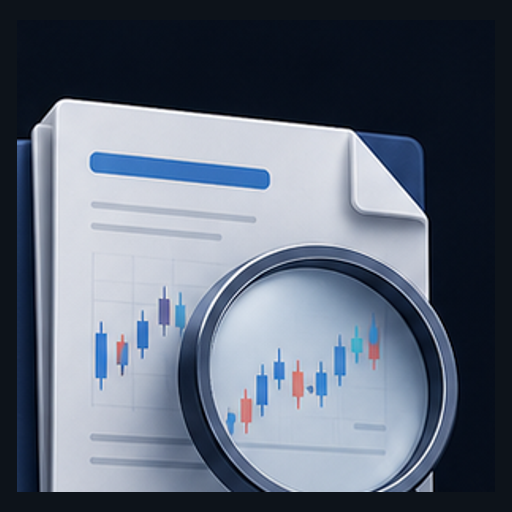
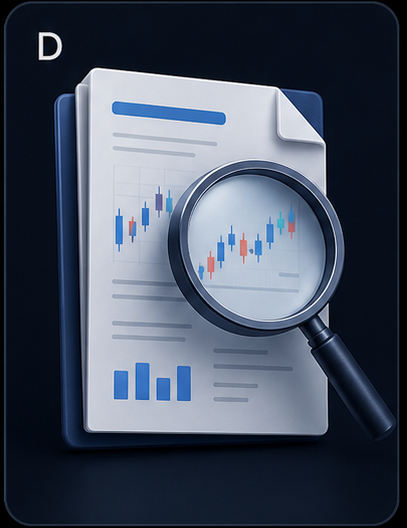
Replace report card image with provided asset

diff --git a/mobile-radar/app.py b/mobile-radar/app.py
@@ -951,7 +951,7 @@ HTML = r"""<!doctype html>
 .app{max-width:760px;margin:0 auto;padding:14px 12px 90px}.top{position:sticky;top:0;z-index:10;background:linear-gradient(#0d131a 80%,rgba(13,19,26,0));padding:10px 0 12px}
 h1{font-size:24px;margin:0 0 4px}.status{font-size:12px;color:var(--muted);margin-top:8px}
 .home-grid{display:grid;grid-template-columns:1fr 1fr;gap:10px;margin:14px 0}.home-card{min-height:132px;background:linear-gradient(180deg,#141d27,#111820);border:1px solid var(--line);border-radius:16px;padding:12px;overflow:hidden;box-shadow:0 10px 22px rgba(0,0,0,.16)}.home-card.wide{grid-column:span 2}.home-card.action{min-height:84px;display:flex;flex-direction:column;justify-content:center}.home-card h2{font-size:15px;margin:0 0 9px;letter-spacing:0}.home-card:nth-child(1) h2{color:#9dccff}.home-card:nth-child(2) h2{color:#ffcf9b}.home-card:nth-child(3) h2{color:#c3a7ff}.home-card:nth-child(4) h2{color:#42c7d8}.home-card:nth-child(5) h2{color:#8aff8a}.home-card:nth-child(6) h2{color:#ffb5d0}.home-card:nth-child(7) h2{color:#d7e7ff}
-.ticker{height:47px;overflow:hidden}.ticker-track{display:grid;gap:5px;animation:roll 10s linear infinite}.ticker-line{display:grid;grid-template-columns:18px minmax(0,1fr) auto;gap:5px;align-items:center;color:#d8e4ee;font-size:12px;min-height:21px}.ticker-line span:nth-child(2){white-space:nowrap;overflow:hidden;text-overflow:ellipsis}.ticker-rank{color:var(--accent);font-weight:900}.ticker-val{color:var(--good);font-weight:800;font-size:11px;white-space:nowrap}@keyframes roll{0%,20%{transform:translateY(0)}28%,48%{transform:translateY(-26px)}56%,76%{transform:translateY(-52px)}84%,96%{transform:translateY(-78px)}100%{transform:translateY(0)}}.hint{font-size:11px;color:var(--muted);margin-top:7px}.report-home{height:78px;display:grid;grid-template-columns:62px 1fr;gap:10px;align-items:center}.report-art{height:62px;border-radius:15px;background:#0d131a url('/static/report-card-d.png') center/cover no-repeat;border:1px solid #344151;box-shadow:0 12px 24px rgba(125,177,255,.18)}.report-home b{display:block;color:#d7e7ff;font-size:14px}.report-home span{display:block;color:#9fb0bf;font-size:11px;line-height:1.45;margin-top:3px}
+.ticker{height:47px;overflow:hidden}.ticker-track{display:grid;gap:5px;animation:roll 10s linear infinite}.ticker-line{display:grid;grid-template-columns:18px minmax(0,1fr) auto;gap:5px;align-items:center;color:#d8e4ee;font-size:12px;min-height:21px}.ticker-line span:nth-child(2){white-space:nowrap;overflow:hidden;text-overflow:ellipsis}.ticker-rank{color:var(--accent);font-weight:900}.ticker-val{color:var(--good);font-weight:800;font-size:11px;white-space:nowrap}@keyframes roll{0%,20%{transform:translateY(0)}28%,48%{transform:translateY(-26px)}56%,76%{transform:translateY(-52px)}84%,96%{transform:translateY(-78px)}100%{transform:translateY(0)}}.hint{font-size:11px;color:var(--muted);margin-top:7px}.report-home{height:82px;display:grid;grid-template-columns:70px 1fr;gap:10px;align-items:center}.report-art{height:74px;border-radius:15px;background:#0d131a url('/static/report-card-d.png') center/contain no-repeat;border:1px solid #344151;box-shadow:0 12px 24px rgba(125,177,255,.18)}.report-home b{display:block;color:#d7e7ff;font-size:14px}.report-home span{display:block;color:#9fb0bf;font-size:11px;line-height:1.45;margin-top:3px}
 .macro-chart-grid{display:grid;gap:10px}.macro-chart{background:var(--card);border:1px solid var(--line);border-radius:14px;padding:10px}.macro-chart-head{display:flex;justify-content:space-between;align-items:baseline;gap:8px}.macro-chart-name{font-weight:900}.macro-chart-value{color:#d7e7ff;font-weight:900}.macro-pos{color:#8aff8a}.macro-neg{color:#ff8585}.mini-svg{width:100%;height:108px;margin-top:8px;display:block}.mini-svg .axis{stroke:#263544;stroke-width:1}.mini-svg .line{fill:none;stroke:#7db1ff;stroke-width:3}.mini-svg .area{fill:#1b2d43;opacity:.55}
 .panel{display:none;background:var(--panel);border:1px solid var(--line);border-radius:14px;padding:12px;margin:12px 0}.page-mode #homeGrid{display:none}.page-mode #detailPanel{display:block}.page-mode .refresh{display:none}.panel-head{display:flex;align-items:center;gap:10px;margin-bottom:10px}.back{border:1px solid #4f77aa;background:#26384d;color:#d7e7ff;border-radius:10px;width:38px;height:36px;font-size:18px}.panel h2{font-size:18px;margin:0}.list{display:grid;gap:9px}
 .row{display:grid;grid-template-columns:34px 1fr auto;gap:8px;align-items:center;background:var(--card);border:1px solid var(--line);border-radius:12px;padding:10px}.rank{font-size:18px;font-weight:900;color:var(--accent)}.name{font-weight:900;font-size:16px}.meta{font-size:12px;color:var(--muted);line-height:1.45;margin-top:3px}.score{text-align:right;color:var(--good);font-weight:900;font-size:14px}.chip{display:inline-block;border:1px solid #4f77aa;border-radius:999px;padding:2px 7px;margin:3px 3px 0 0;color:#d7e7ff;background:#26384d;font-size:11px}.metric-grid{display:grid;grid-template-columns:1fr 1fr;gap:8px;margin-bottom:10px}.metric{background:#202832;border:1px solid #344151;border-radius:12px;padding:10px}.metric b{display:block;color:#d7e7ff;font-size:18px}.metric span{display:block;color:#9fb0bf;font-size:11px;margin-top:3px}.section-note{background:#0f1720;border:1px solid #263544;border-radius:12px;padding:10px;color:#c7d4e0;font-size:12px;line-height:1.55;margin-bottom:10px}.mini-bars{display:grid;gap:7px;margin-top:8px}.mini-bar{display:grid;grid-template-columns:76px 1fr auto;gap:7px;align-items:center;font-size:12px}.bar-track{height:8px;background:#344151;border-radius:999px;overflow:hidden}.bar-fill{display:block;height:100%;background:#7db1ff}.pos{color:#8aff8a}.neg{color:#ff8585}
